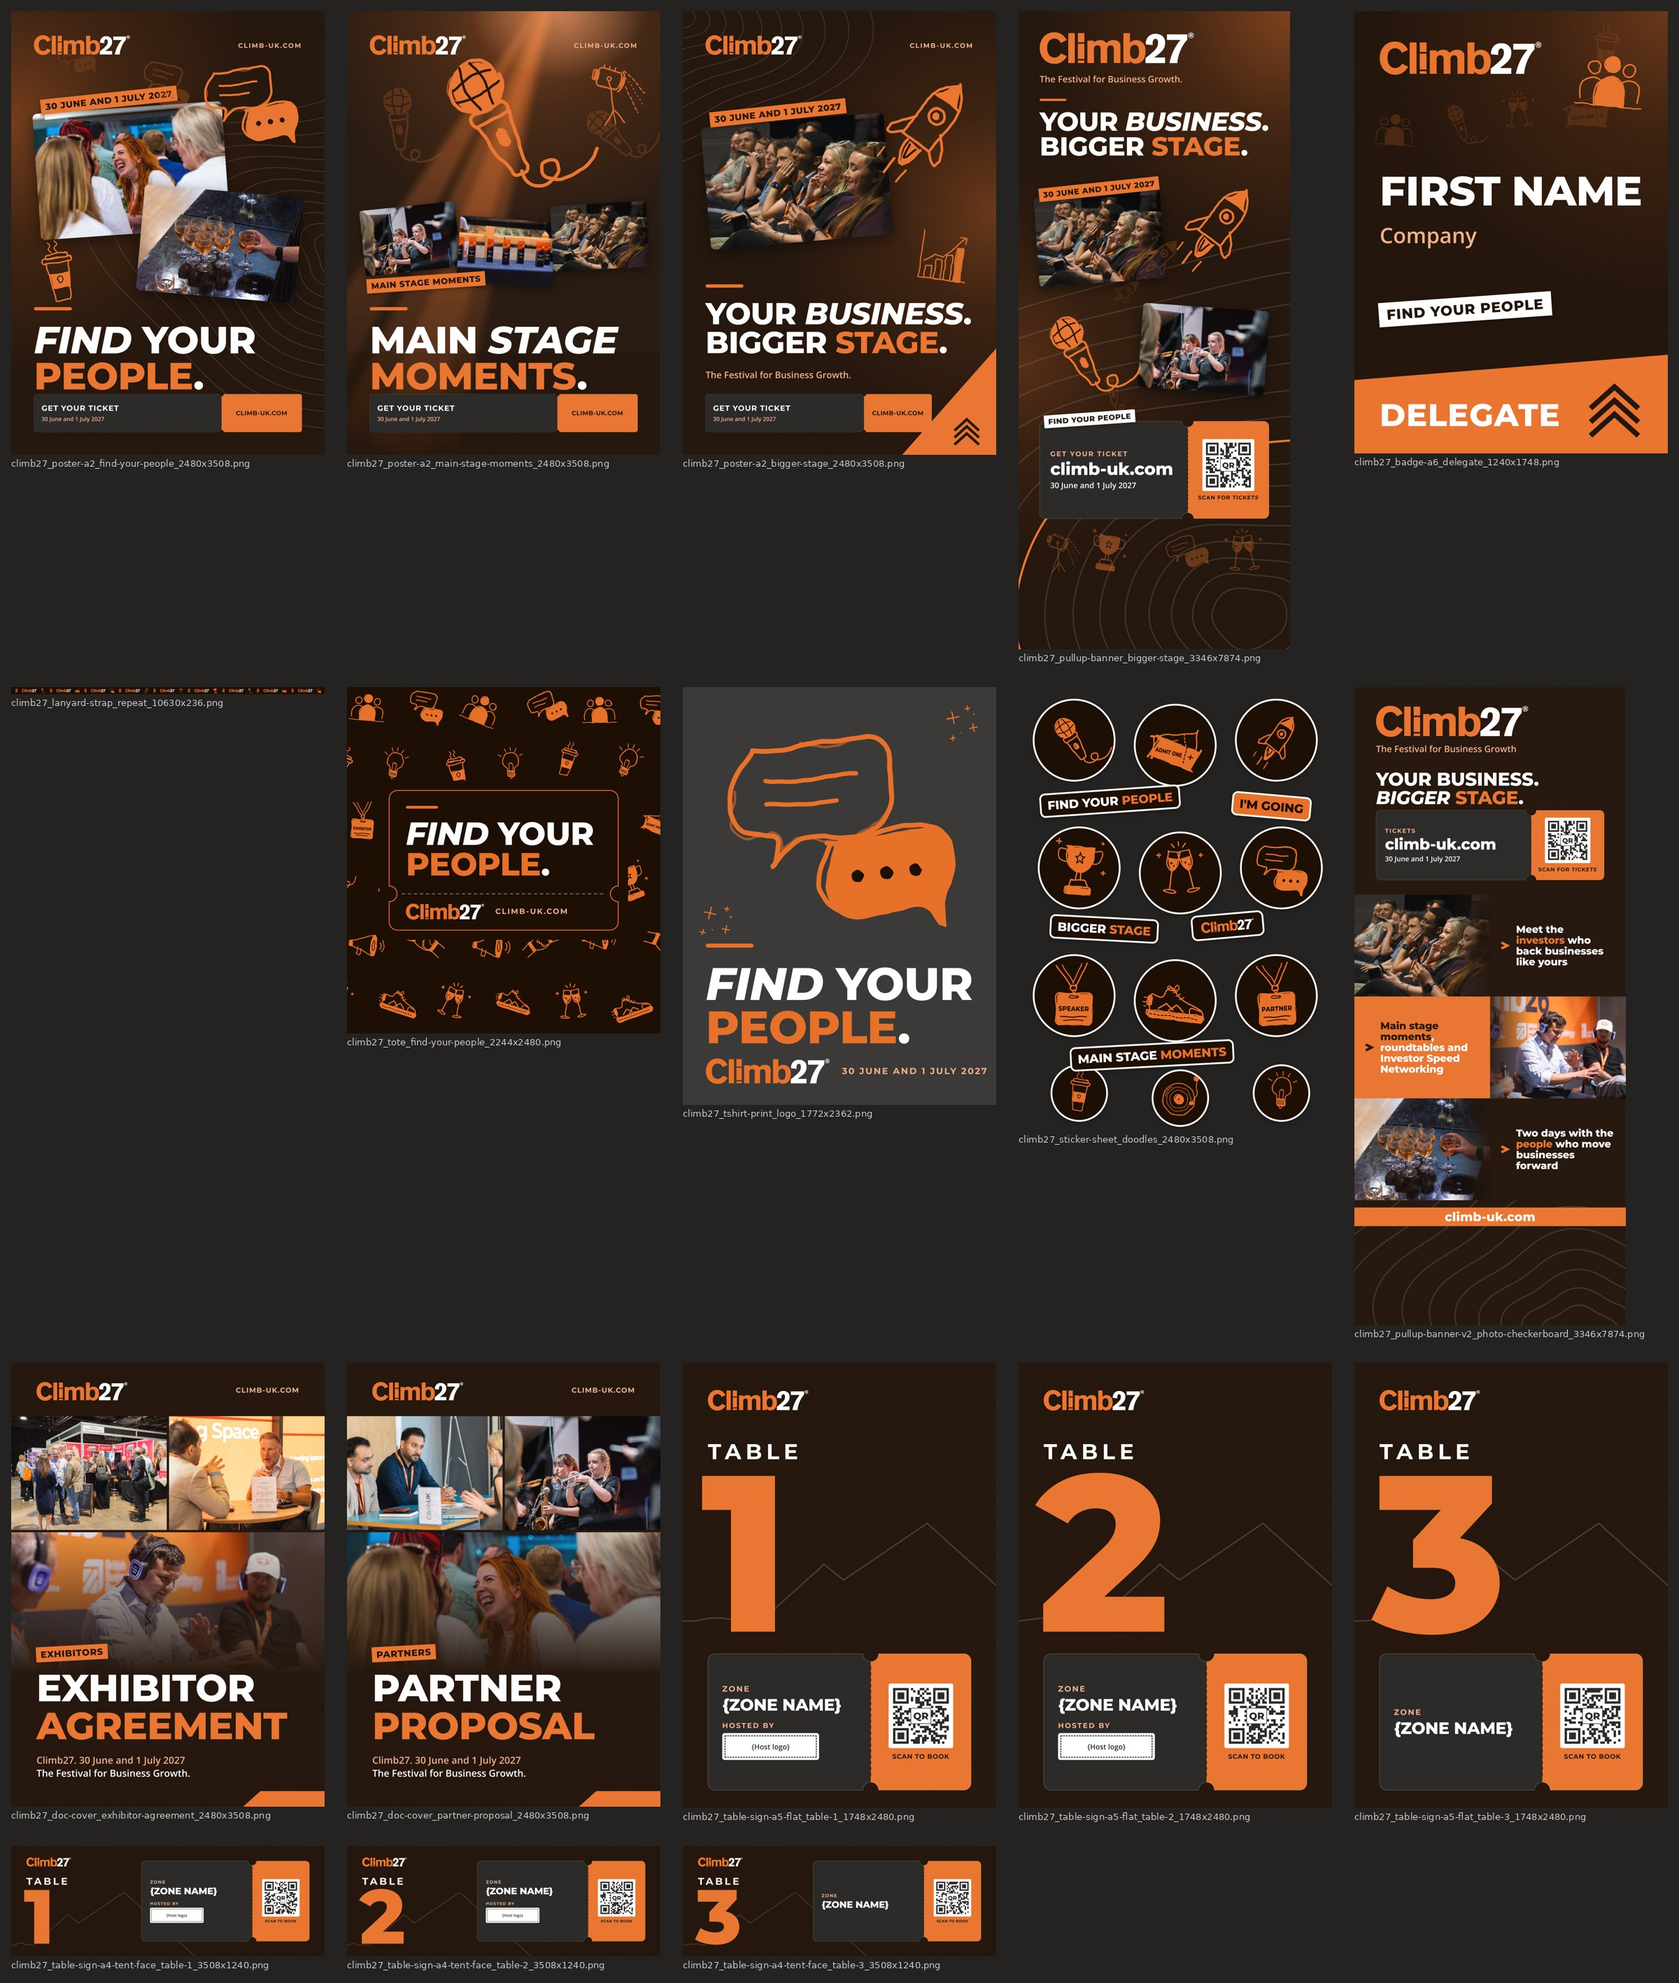
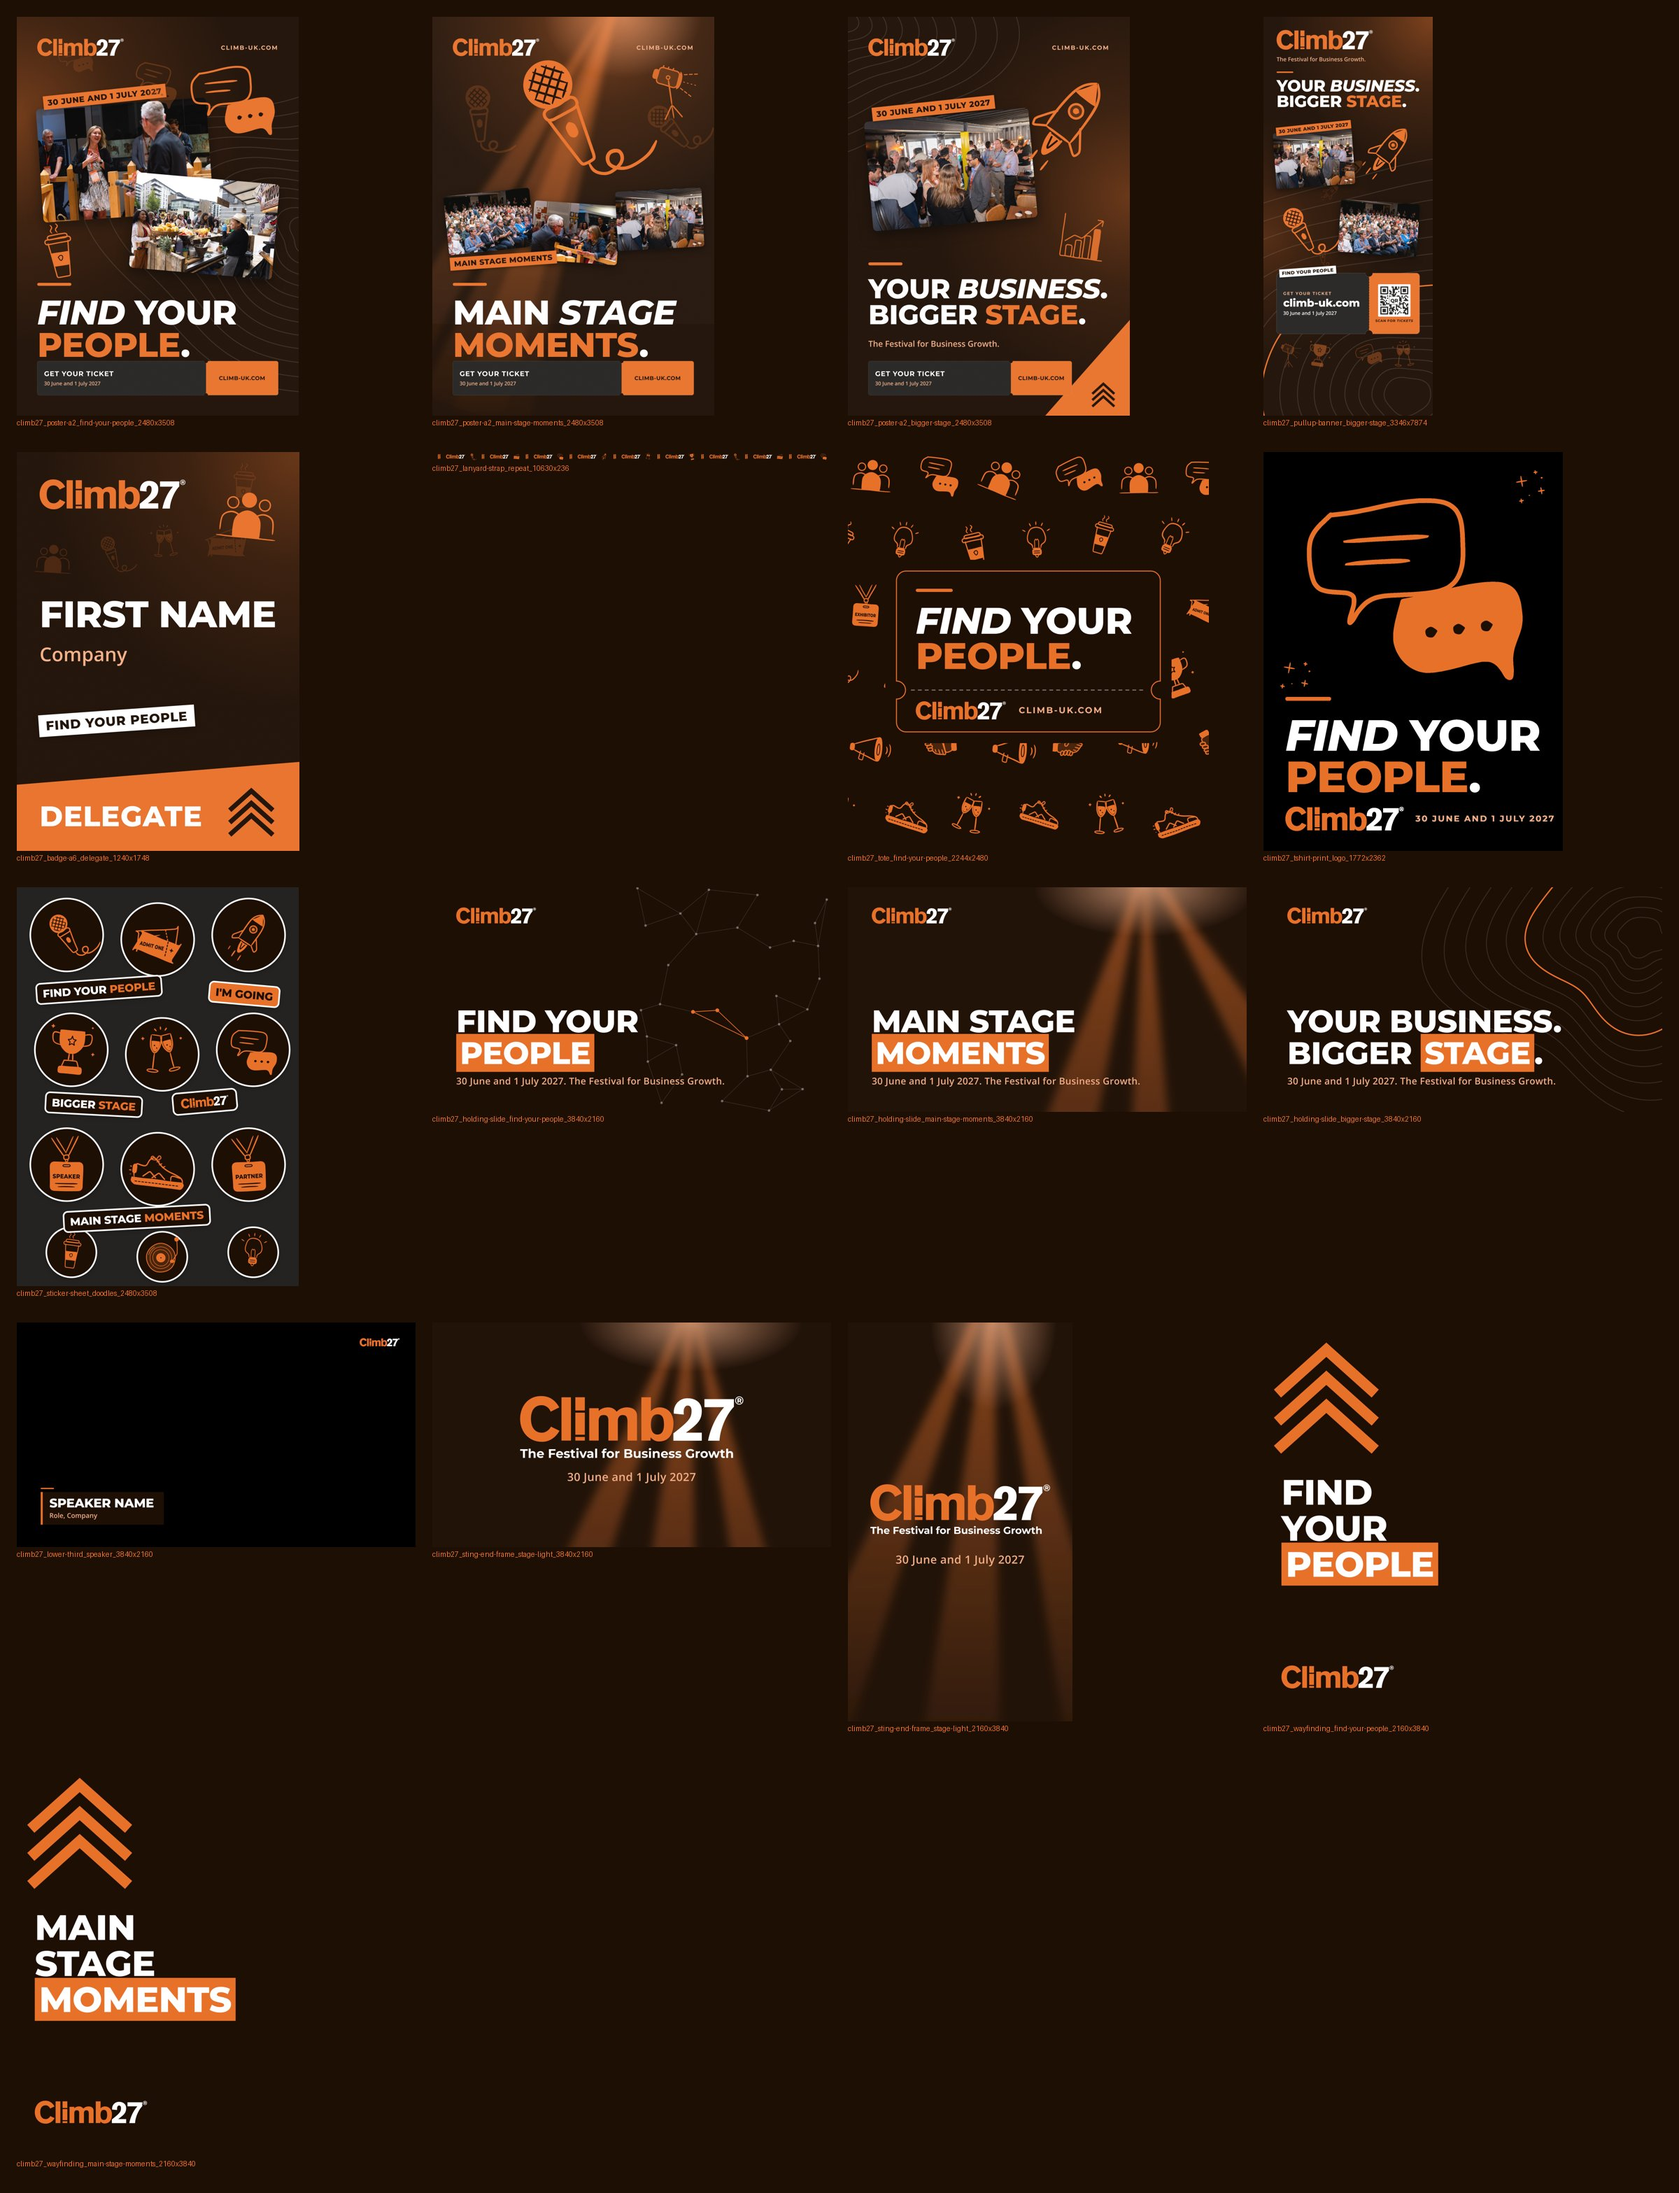
feat(previews): rebuild the contact sheets with the 4K candid photos
Re-renders the 141 catalogue pieces against the new photos and rebuilds
the calls, wallpapers, social, print, festival kit and email banner
sheets. tools/contact_sheet.py builds them from a rendered catalogue so
they can be refreshed in one step. The generators README now describes
the 4K photo set.

diff --git a/tools/contact_sheet.py b/tools/contact_sheet.py
@@ -1,0 +1,64 @@
+"""Build the previews/ contact sheets from a rendered asset catalogue.
+
+Usage: python3 tools/contact_sheet.py BUILD_DIR [DATE]
+BUILD_DIR is the folder catalogue.py and render.mjs wrote (manifest.json and png/).
+Writes previews/redesign-<group>-DATE.jpg, festival-kit-DATE.jpg and email-banners-DATE.jpg.
+"""
+import json
+import pathlib
+import sys
+from PIL import Image, ImageDraw, ImageFont
+
+ROOT = pathlib.Path(__file__).resolve().parents[1]
+GROUND = (29, 15, 4)
+INK = (232, 113, 42)
+FONT = ROOT / "fonts"
+
+
+def font(size):
+    for p in sorted(FONT.rglob("*.ttf")):
+        if "OpenSans" in p.name and "Regular" in p.name:
+            return ImageFont.truetype(str(p), size)
+    return ImageFont.load_default()
+
+
+def sheet(assets, png, out, width=2400, cols=3, pad=24, label=28):
+    cell = (width - pad * (cols + 1)) // cols
+    f = font(18)
+    tiles = []
+    for a in assets:
+        im = Image.open(png / (a["name"] + ".png")).convert("RGB")
+        im.thumbnail((cell, cell))
+        tiles.append((a["name"], im))
+    rows = [tiles[i:i + cols] for i in range(0, len(tiles), cols)]
+    heights = [max(t[1].height for t in r) + label for r in rows]
+    S = Image.new("RGB", (width, sum(heights) + pad * (len(rows) + 1)), GROUND)
+    d = ImageDraw.Draw(S)
+    y = pad
+    for r, h in zip(rows, heights):
+        for i, (name, im) in enumerate(r):
+            x = pad + i * (cell + pad)
+            S.paste(im, (x, y))
+            d.text((x, y + im.height + 4), name, fill=INK, font=f)
+        y += h + pad
+    S.save(out, quality=85, optimize=True)
+    print(out.relative_to(ROOT), S.size, len(assets))
+
+
+def main(argv):
+    build = pathlib.Path(argv[0])
+    date = argv[1] if len(argv) > 1 else "2026-10-10"
+    m = json.load(open(build / "manifest.json"))
+    png = build / "png"
+    P = ROOT / "previews"
+    core = lambda g: [a for a in m if a["group"] == g and a.get("set") != "festival-kit"]
+    sheet(core("Calls"), png, P / f"redesign-calls-{date}.jpg", cols=4)
+    sheet([a for a in core("Wallpapers") if a["w"] == 3840], png, P / f"redesign-wallpapers-{date}.jpg", cols=4)
+    sheet(core("Social"), png, P / f"redesign-social-{date}.jpg", cols=3)
+    sheet(core("Print and merch") + core("Stage and screens"), png, P / f"redesign-print-and-merch-{date}.jpg", cols=4)
+    sheet([a for a in m if a.get("set") == "festival-kit"], png, P / f"festival-kit-{date}.jpg", cols=4)
+    sheet(core("Email banners"), png, P / f"email-banners-{date}.jpg", width=1440, cols=2)
+
+
+if __name__ == "__main__":
+    main(sys.argv[1:])

diff --git a/generators/README.md b/generators/README.md
@@ -78,7 +78,7 @@ How to use them (the rule the layouts follow): one hero drawing tied to the mess
 
 `poster_kit.py` builds Calls, Wallpapers, Social and Print and merch (`catalogue.assets()` calls it). It reuses the festival kit devices (ticket cards, stickers, display lines with `[[orange]]` and `*italic*` words, grain) and adds: `glow()` for the orange stage glow from a corner, `head()` for the display lines with the short orange rule and an eyebrow, `slab_poly()` for diagonal cuts, `chevrons()`, `date_ticket()` for a ticket with the edition mark, dates and URL, and `Kit.pic()` for photos (cover crop, optional duotone, blur, tilt, fade and shadow). Sticker positions can be measured from the right edge (`side="right"`) so long labels never leave the canvas.
 
-Photo resolution: the Climb26 photos are 1600px wide. Crisp photos sit in tilted photo cards no larger than the source; anywhere a photo has to cover more (full bleed on 4K and 5K screens, call background edges, story backgrounds), it is blurred, set as a duotone or held under a heavy fade. `Kit.pic()` checks every crisp photo and `catalogue.py` prints a `RESOLUTION` line for any shown above its own size, so a new layout cannot slip an upscale through. Swap in full resolution photography for final print files.
+Photo resolution: the Climb26 photos in `photos/` are 4K (3840px on the long edge, recaps 2160px square) from the original files; `photos/candid/` holds more frames for the PDFs, and `photos/SOURCES.md` lists where each one came from. `Kit.pic()` checks every crisp photo and `catalogue.py` prints a `RESOLUTION` line for any shown above its own size, so a new layout cannot slip an upscale through.
 
 ## Email banners and the signature
 
